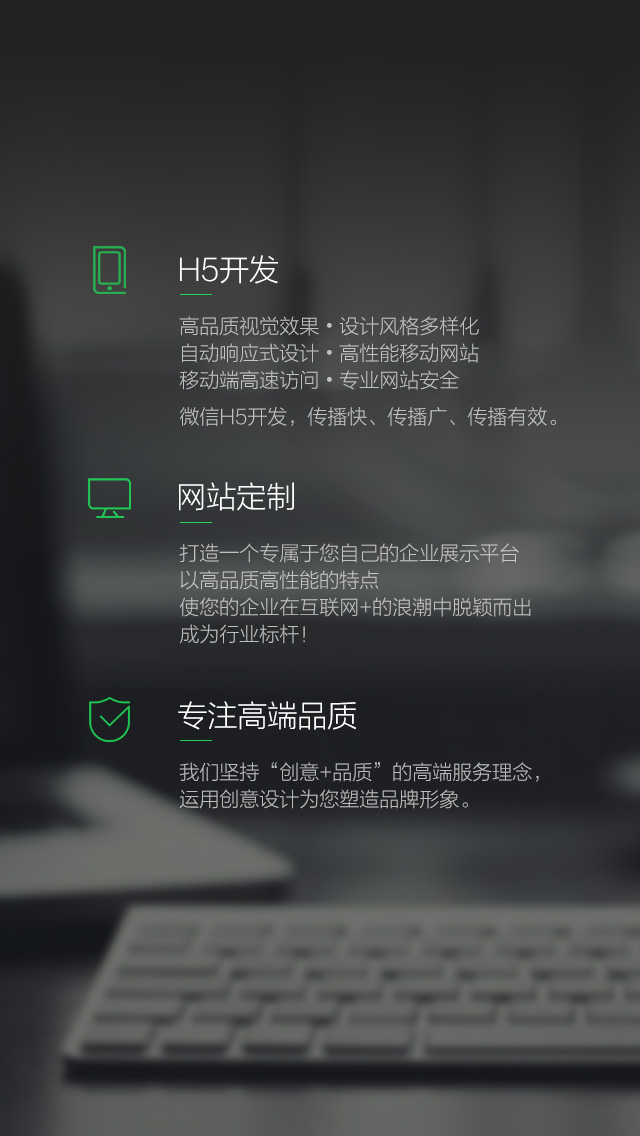
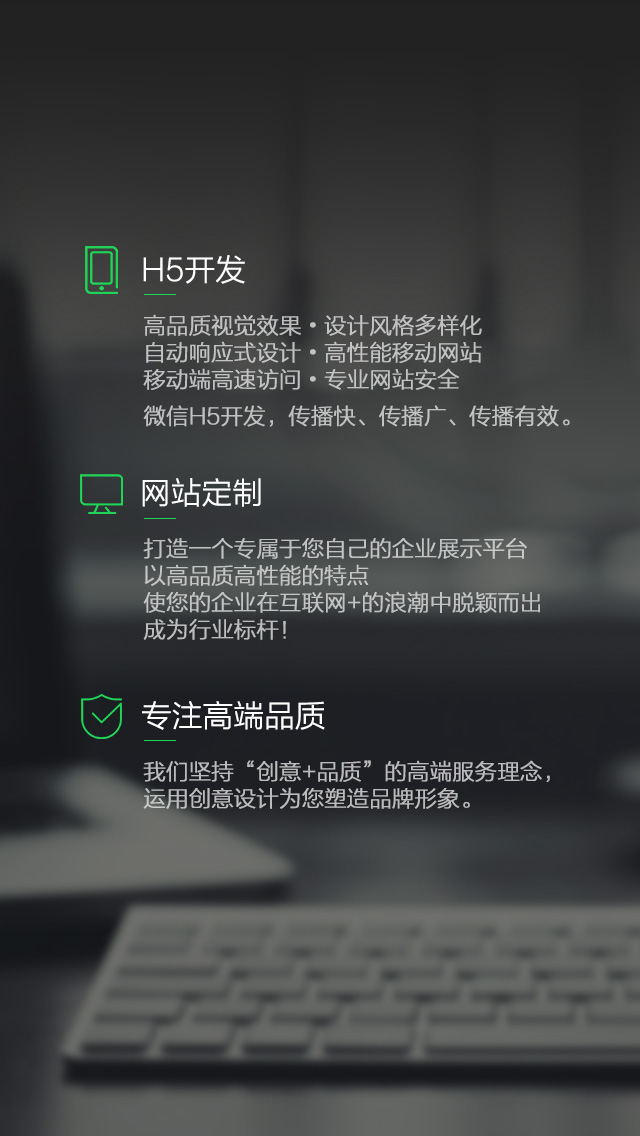
Add files via upload

Changed region(s): [[0.125, 0.2773, 0.875, 0.5854], [0.125, 0.6162, 0.8438, 0.7086], [0.125, 0.2157, 0.4375, 0.2773]]

diff --git a/a4studio/css/style.css b/a4studio/css/style.css
@@ -320,10 +320,10 @@ body{
 
 .page-title{
 	position: absolute;
-	width: 7.6rem;
+	width: 8rem;
     height: 4.2rem;
     right: 1.25rem;
-    bottom: 1rem;
+    bottom: 1.2rem;
     background: url(./img/page-title-service.png) no-repeat bottom right;
 	background-size: contain;
 }
